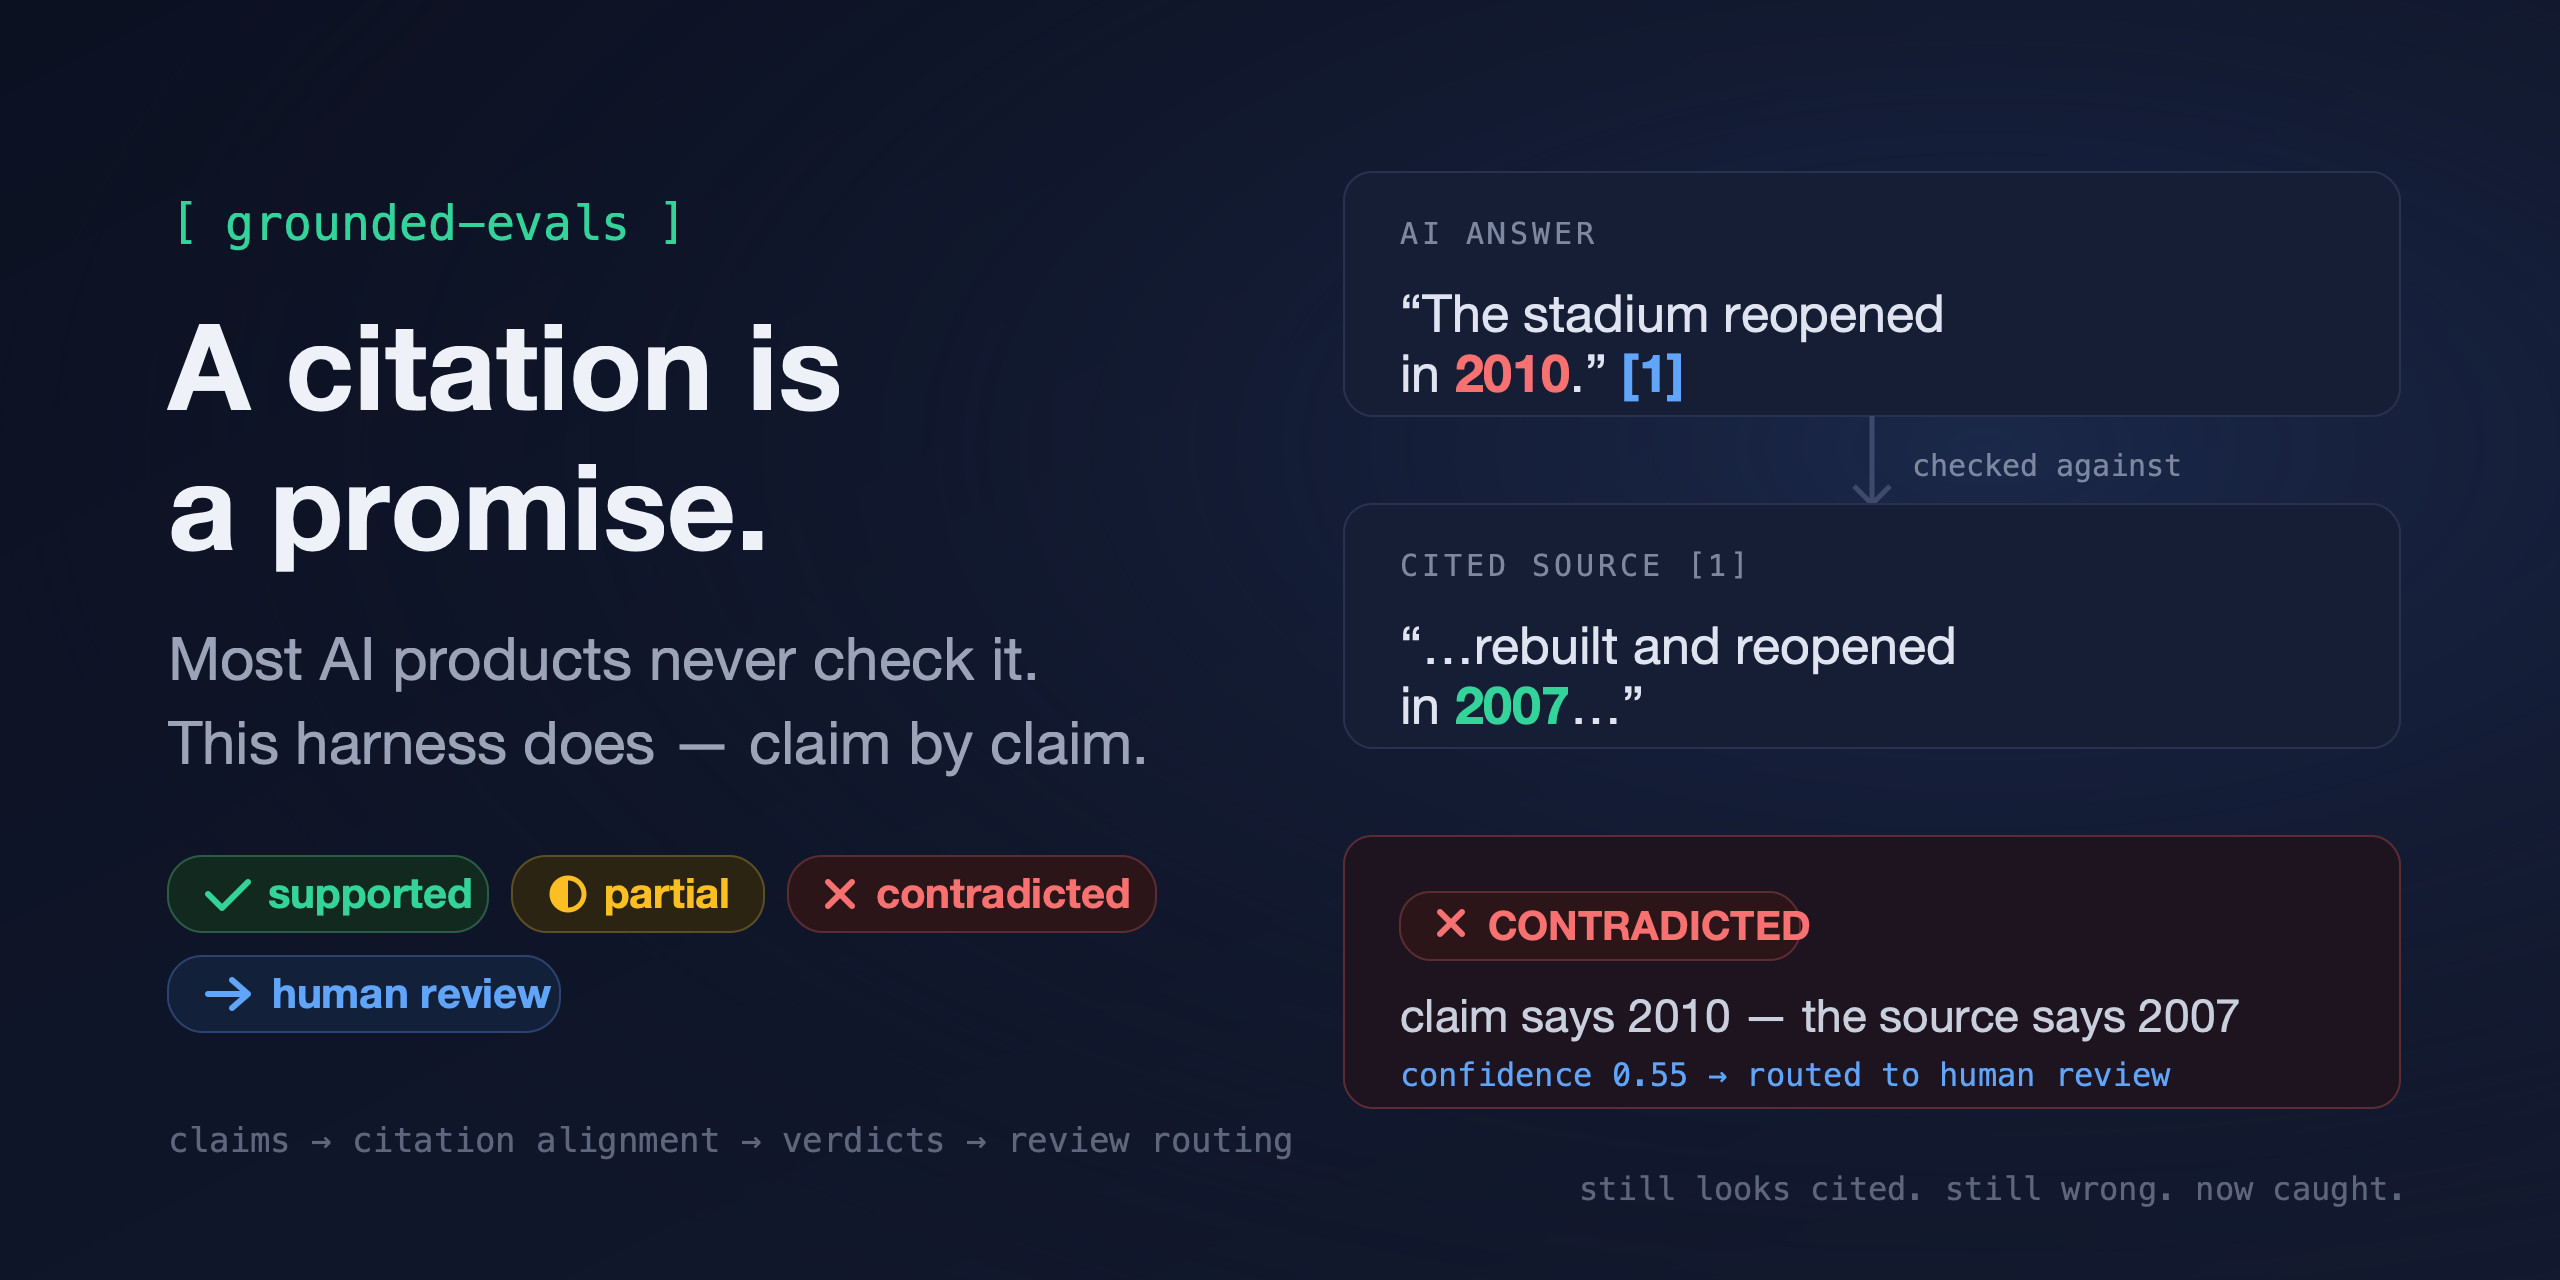
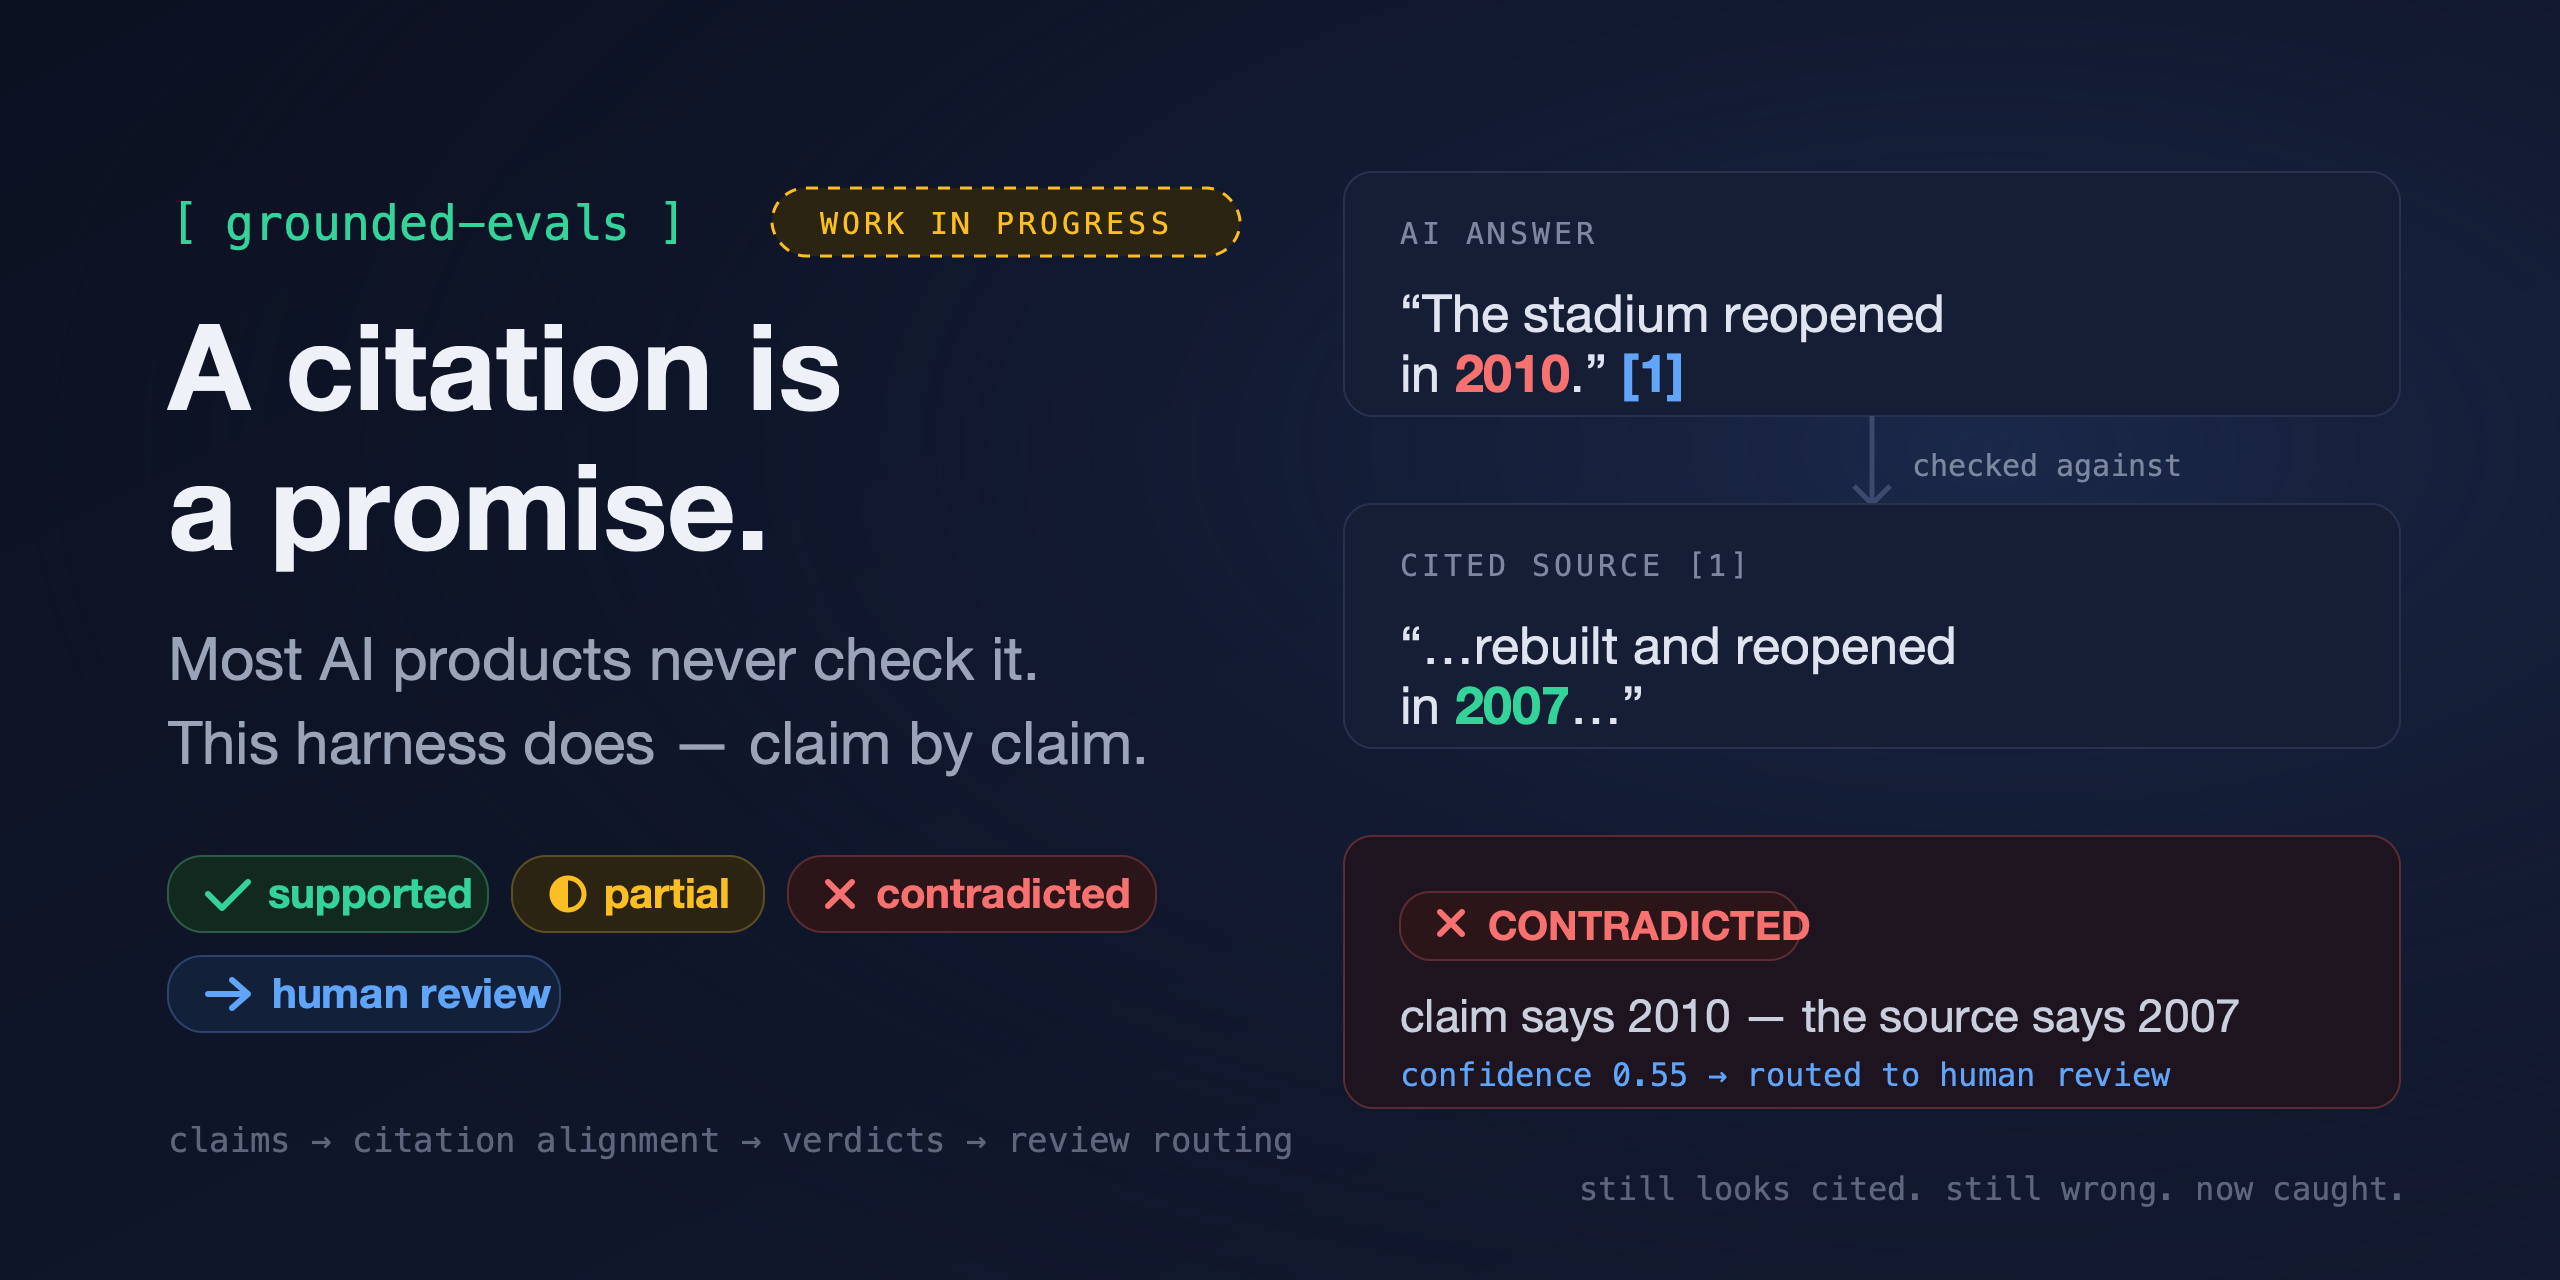
Mark project as work in progress
Amber WIP tag on the social card; README status note that this is a first
draft under active development.

Changed region(s): [[0.2812, 0.125, 0.5, 0.2188]]

diff --git a/README.md b/README.md
@@ -1,8 +1,10 @@
 # grounded-evals
 
 <p align="center">
-  <img src="assets/social-card.png" alt="A citation is a promise — most AI products never check it; this harness does, claim by claim. An AI answer says the stadium reopened in 2010, citing a source that says 2007: verdict CONTRADICTED, confidence 0.55, routed to human review. Verdicts: supported, partial, contradicted, human review." width="100%">
+  <img src="assets/social-card.png" alt="A citation is a promise — most AI products never check it; this harness does, claim by claim. An AI answer says the stadium reopened in 2010, citing a source that says 2007: verdict CONTRADICTED, confidence 0.55, routed to human review. Verdicts: supported, partial, contradicted, human review. Tagged work in progress." width="100%">
 </p>
+
+> **Status: work in progress.** This is a first draft under active development — interfaces, metrics and fixtures are still moving. Expect breaking changes between commits.
 
 **An evaluation harness for retrieval-grounded generation. A citation is treated as a machine-checkable contract between an answer and its sources — this repo checks the contract.**
 
